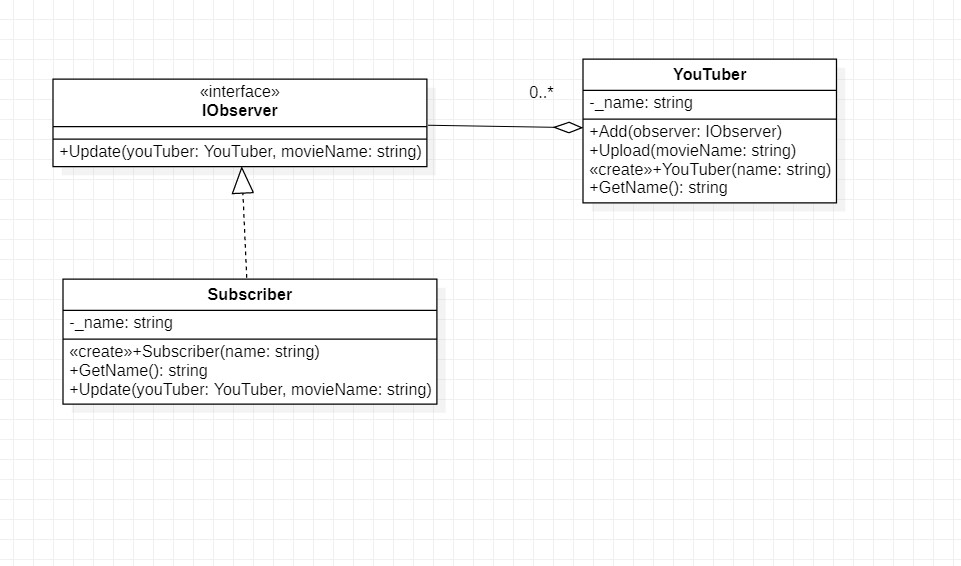
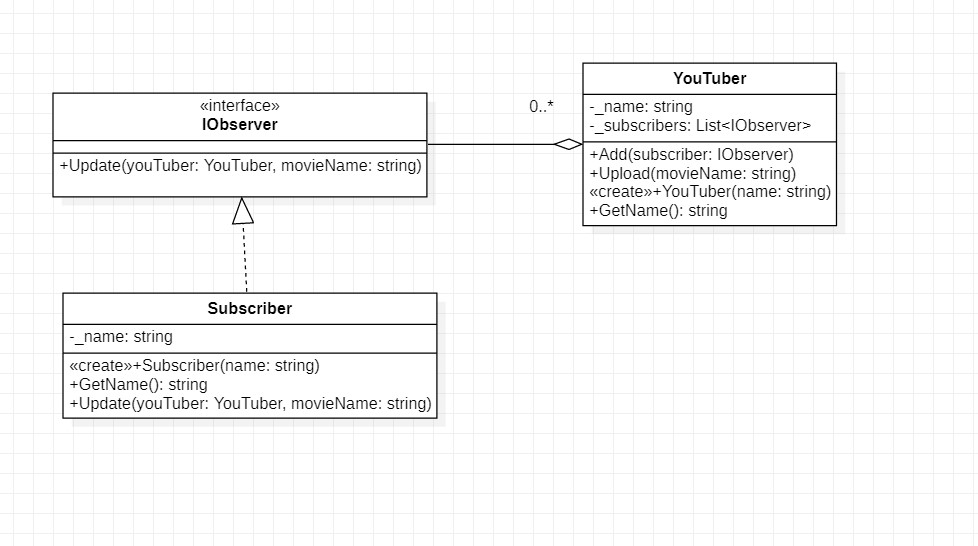
Changed collection name

Changed region(s): [[0.0312, 0.0934, 0.8741, 0.4359], [0.0624, 0.467, 0.4683, 0.7784]]

diff --git a/Observer/ObserverProgram.cs b/Observer/ObserverProgram.cs
@@ -6,18 +6,18 @@ namespace Observer
 {
     public class YouTuber
     {
-        private List<IObserver> _observers;
+        private List<IObserver> _subscribers;
         private string _name;
 
         public YouTuber(string name)
         {
-            _observers = new List<IObserver>();
+            _subscribers = new List<IObserver>();
             _name = name;
         }
 
         public void Add(IObserver observer)
         {
-            _observers.Add(observer);
+            _subscribers.Add(observer);
             if (observer is Subscriber subscriber)
             {
                 Console.WriteLine($"{subscriber.GetName()} subscribed {_name}");
@@ -26,7 +26,7 @@ namespace Observer
 
         public void Upload(string movieName)
         {
-            _observers.ToList().ForEach(x =>
+            _subscribers.ToList().ForEach(x =>
             {
                 x.Update(this, movieName);
             });
